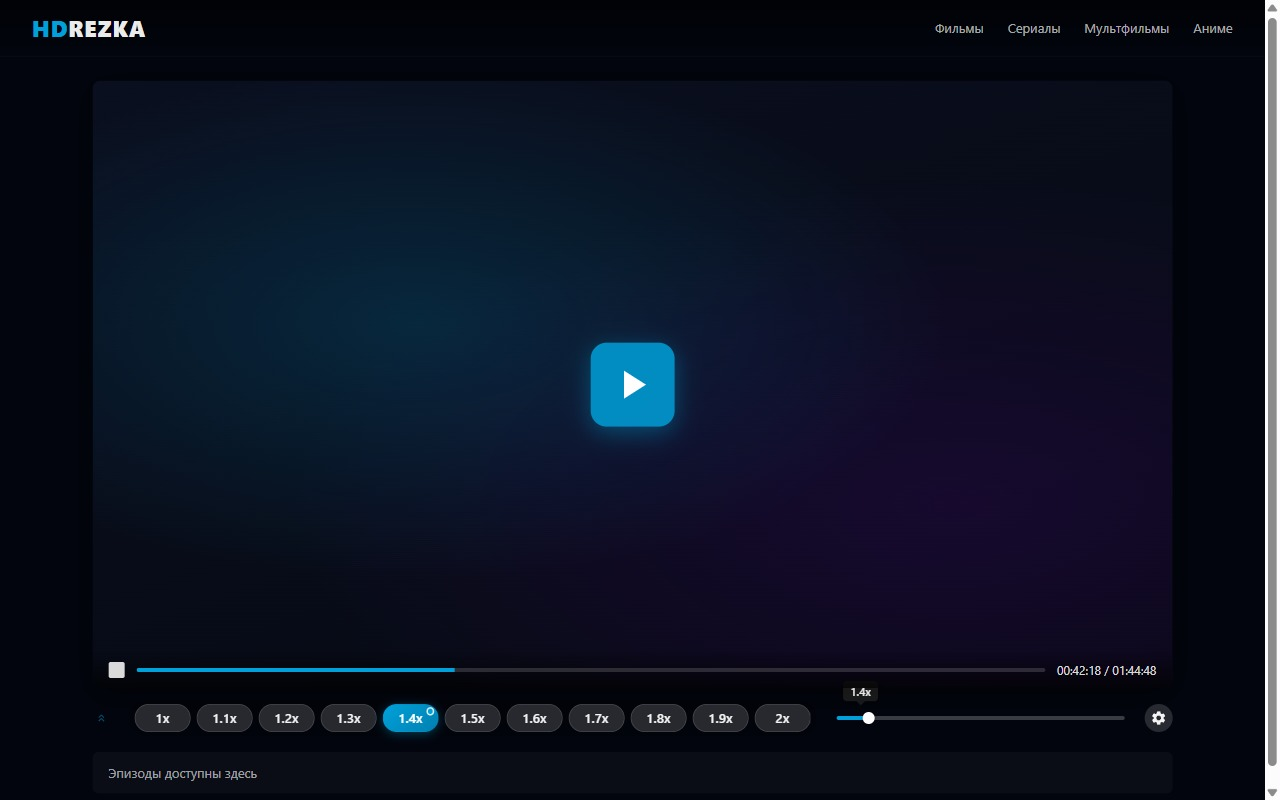
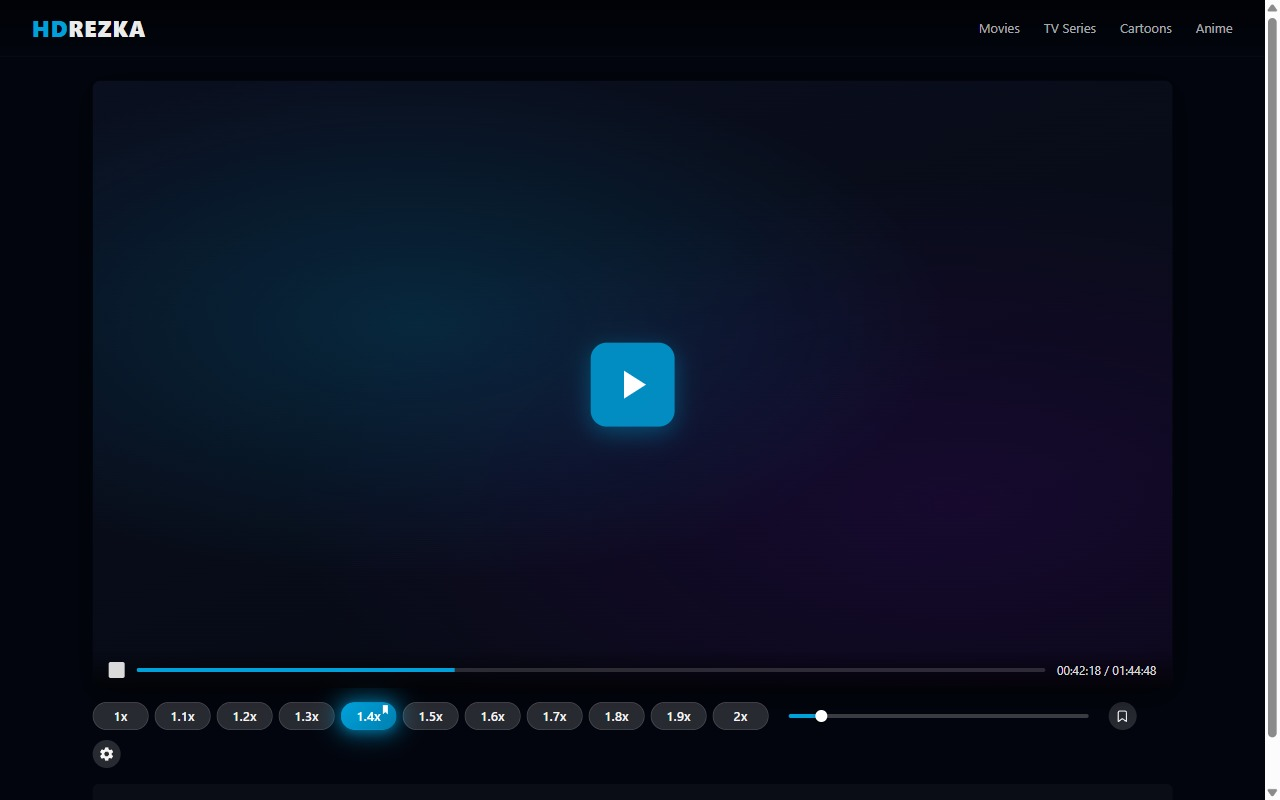
chore(screenshots): regenerate with English locale + cleaned mock
Mock page updated to English copy (Movies / TV Series / Cartoons /
Anime / Episodes available here) for international store listings.

render.mjs now passes --lang=en-US and locale 'en-US' so the panel
+ modal i18n picks English. Regenerated dist-store-assets/screenshots
reflect the current 0.3.19 visuals (no dark surface around pills,
bookmark + halo glow for the pinned speed, English UI throughout).

diff --git a/tests/store-screenshots/mock-page.html b/tests/store-screenshots/mock-page.html
@@ -1,5 +1,5 @@
 <!DOCTYPE html>
-<html lang="ru" data-vs-theme="dark">
+<html lang="en" data-vs-theme="dark">
 <head>
 <meta charset="UTF-8">
 <title>HDRezka — store screenshot host</title>
@@ -138,7 +138,7 @@
 <div class="b-tophead">
   <div class="b-tophead-logo"><span class="hd">HD</span>REZKA</div>
   <div class="b-tophead-nav">
-    <span>Фильмы</span><span>Сериалы</span><span>Мультфильмы</span><span>Аниме</span>
+    <span>Movies</span><span>TV Series</span><span>Cartoons</span><span>Anime</span>
   </div>
 </div>
 
@@ -152,7 +152,7 @@
       <span style="font-variant-numeric:tabular-nums">00:42:18 / 01:44:48</span>
     </div>
   </div>
-  <div class="b-content__inline_items">Эпизоды доступны здесь</div>
+  <div class="b-content__inline_items">Episodes available here</div>
 </div>
 </body>
 </html>